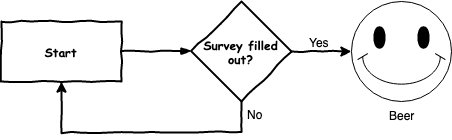
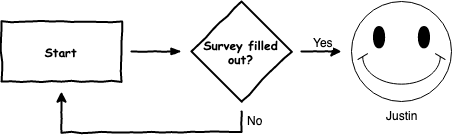
More content; more reorganizing

diff --git a/my_new_pres/Intro/01_slide.md b/my_new_pres/Intro/01_slide.md
@@ -6,6 +6,7 @@
 | 9:00 - 9:15    | Welcome and Introductions                    | Justin  |
 | 9:15 - 10:00   | Introduce Wild Rydes                         | Justin  |
 | 10:00 - 12:00  | Web Application Labs 0-4: S3, Cognito, <br>API Gateway, Lambda, DynamoDB | Justin  |
-| 12:00 - 1:00   | Lunch                                        | Justin  |
-| 1:00 - 4:00    | Data Processing Labs 1-5: Kinesis, Athena, <br>S3, Lambda, DynamoDB | Justin  |
-| 4:00 - 4:30    | Close-out and Beer                           | Justin  |
+| 12:00 - 1:00   | Lunch                                        |   |
+| 1:00 - 4:00    | Data Processing Labs 0-4: Kinesis, Athena, <br>S3, Lambda, DynamoDB | Justin  |
+| 4:00 - 4:30    | Close-out                           | Justin  |
+| 4:30 - 6:00    | Happy hour | |

diff --git a/my_new_pres/WebApp/06_slide.md b/my_new_pres/WebApp/06_slide.md
@@ -1,0 +1,8 @@
+<!SLIDE activity>
+# Let's Build!
+
+1. [Setup](https://github.com/aws-samples/aws-serverless-workshops/tree/master/WebApplication/0_Setup)
+1. [Static web hosting](https://github.com/aws-samples/aws-serverless-workshops/tree/master/WebApplication/1_StaticWebHosting)
+1. [User Management](https://github.com/aws-samples/aws-serverless-workshops/tree/master/WebApplication/2_UserManagement)
+1. [Serverless Backend](https://github.com/aws-samples/aws-serverless-workshops/tree/master/WebApplication/3_ServerlessBackend)
+1. [RESTful APIs](https://github.com/aws-samples/aws-serverless-workshops/tree/master/WebApplication/4_RESTfulAPIs)

diff --git a/my_new_pres/DataProcessing/02_slide.md b/my_new_pres/DataProcessing/02_slide.md
@@ -1,15 +1,9 @@
 <!SLIDE >
-# Module 1: Static web hosting
+# Module 1: Real-time streaming
 
-![Amplify](mod01.png)
+.callout.thumbsup Create an Amazon Cognito **Identity** Pool
 
-### Code*
-* Fully-managed source control service; Git-based repositories
-* Collaborate using branching, pull requests, etc
+![Real-time streaming](data_processing_1.png)
 
-### Amplify
-* Supports GraphQL or REST API backends
-* Supports Single Page Application (SPA) frameworks
-  * React, Angular, Vue, or Gatsby
-
-[Link to module](https://github.com/aws-samples/aws-serverless-workshops/tree/master/WebApplication/1_StaticWebHosting)
+### Amazon Kinesis
+*

diff --git a/my_new_pres/WebApp/02_slide.md b/my_new_pres/WebApp/02_slide.md
@@ -1,7 +1,7 @@
 <!SLIDE >
 # Module 1: Static web hosting
 
-![Amplify](mod01.png)
+![Amplify](web_application_1.png)
 
 ### Code*
 * Fully-managed source control service; Git-based repositories
@@ -11,5 +11,3 @@
 * Supports GraphQL or REST API backends
 * Supports Single Page Application (SPA) frameworks
   * React, Angular, Vue, or Gatsby
-
-[Link to module](https://github.com/aws-samples/aws-serverless-workshops/tree/master/WebApplication/1_StaticWebHosting)

diff --git a/my_new_pres/WebApp/01_slide.md b/my_new_pres/WebApp/01_slide.md
@@ -1,7 +1,7 @@
 <!SLIDE >
 # Module 0: Set up AWS Cloud9
 
-![Cloud9](mod00.png)
+![Cloud9](web_application_0.png)
 
 Features:
 
@@ -11,8 +11,6 @@ Features:
 * Prepackaged tools for over 40 programming languages
   * Git, AWS CLI, Node.js, JavaScript, Python, PHP, Ruby, Go, C++, etc
 * Direct terminal access
-
-[Link to module](https://github.com/aws-samples/aws-serverless-workshops/tree/master/WebApplication/0_Setup)
 
 ~~~SECTION:notes~~~
 

diff --git a/my_new_pres/WebApp/03_slide.md b/my_new_pres/WebApp/03_slide.md
@@ -1,9 +1,9 @@
 <!SLIDE >
 # Module 2: User management
 
-![Cognito](mod02.png)
+![Cognito](web_application_2.png)
 
 ### Cognito
-* Insert features
-
-[Link to module](https://github.com/aws-samples/aws-serverless-workshops/tree/master/WebApplication/2_UserManagement)
+* Fully managed, secure user directory
+* Scales to manage hundreds of millions of users
+* Standards-based authentication such as OpenID Connect, OAuth 2.0, and SAML 2.0

diff --git a/my_new_pres/DataProcessing/06_slide.md b/my_new_pres/DataProcessing/06_slide.md
@@ -1,0 +1,8 @@
+<!SLIDE activity>
+# Let's Build!
+
+1. [Setup](https://dataprocessing.wildrydes.com/setup.html)
+1. [Streaming data](https://dataprocessing.wildrydes.com/streaming-data.html)
+1. [Streaming aggregation](https://dataprocessing.wildrydes.com/streaming-aggregation.html)
+1. [Stream processing](https://dataprocessing.wildrydes.com/stream-processing.html)
+1. [Data Lake](https://dataprocessing.wildrydes.com/data-lake.html)

diff --git a/my_new_pres/DataProcessing/01_slide.md b/my_new_pres/DataProcessing/01_slide.md
@@ -1,11 +1,9 @@
 <!SLIDE >
 # Module 0: Set up AWS Cloud9
 
-.callout.thumbsup You can use the same Cloud9 environment.
+.callout.thumbsup You can use the same Cloud9 environment. Complete other instructions.
 
-insert image of cloud9 pulling from github
-
-[Link to module](https://dataprocessing.wildrydes.com/setup.html)
+![Env setup](data_processing_0.png)
 
 ~~~SECTION:notes~~~
 

diff --git a/my_new_pres/WebApp/04_slide.md b/my_new_pres/WebApp/04_slide.md
@@ -1,9 +1,10 @@
 <!SLIDE >
 # Module 3: Serverless backend
 
-![Lambda](mod03.png)
+![Lambda](web_application_3.png)
 
 ### Lambda
-* Insert features
+* Serverless compute run in response to events
 
-[Link to module](https://github.com/aws-samples/aws-serverless-workshops/tree/master/WebApplication/3_ServerlessBackend)
+### DynamoDB
+* Single digit millisecond response time

diff --git a/README.md b/README.md
@@ -3,6 +3,12 @@ docker-compose up -d
 Pressing 'r' reloads the presentation
 Source: https://github.com/puppetlabs/showoff/blob/master/documentation/USAGE.rdoc
 
+On the EC2 host:
+```
+sudo sysctl net.ipv4.conf.all.forwarding=1
+sudo iptables -P FORWARD ACCEPT
+```
+
 Ideas:
 * [ ] include links to marketing pages
 * [ ] include links to documentation

diff --git a/my_new_pres/DataProcessing/03_slide.md b/my_new_pres/DataProcessing/03_slide.md
@@ -1,9 +1,7 @@
 <!SLIDE >
-# Module 2: User management
+# Module 2: Stream aggregation
 
-![Cognito](mod02.png)
+![Stream aggregation](data_processing_2.png)
 
-### Cognito
+### Amazon Kinesis Data Analytics
 * Insert features
-
-[Link to module](https://github.com/aws-samples/aws-serverless-workshops/tree/master/WebApplication/2_UserManagement)

diff --git a/my_new_pres/Closing/00_slide.md b/my_new_pres/Closing/00_slide.md
@@ -8,10 +8,8 @@
 * Skip people or sections if applicable.
 * Goal is to get specific good AND bad feedback.
 
+<img src="decision_tree.png" height="200" align="center"><br><br>
+
 ## 2. Beer 🍻
 
 * Happy hour until 6pm
-
-<br><br>
-
-![Decisions](decision_tree.png)
